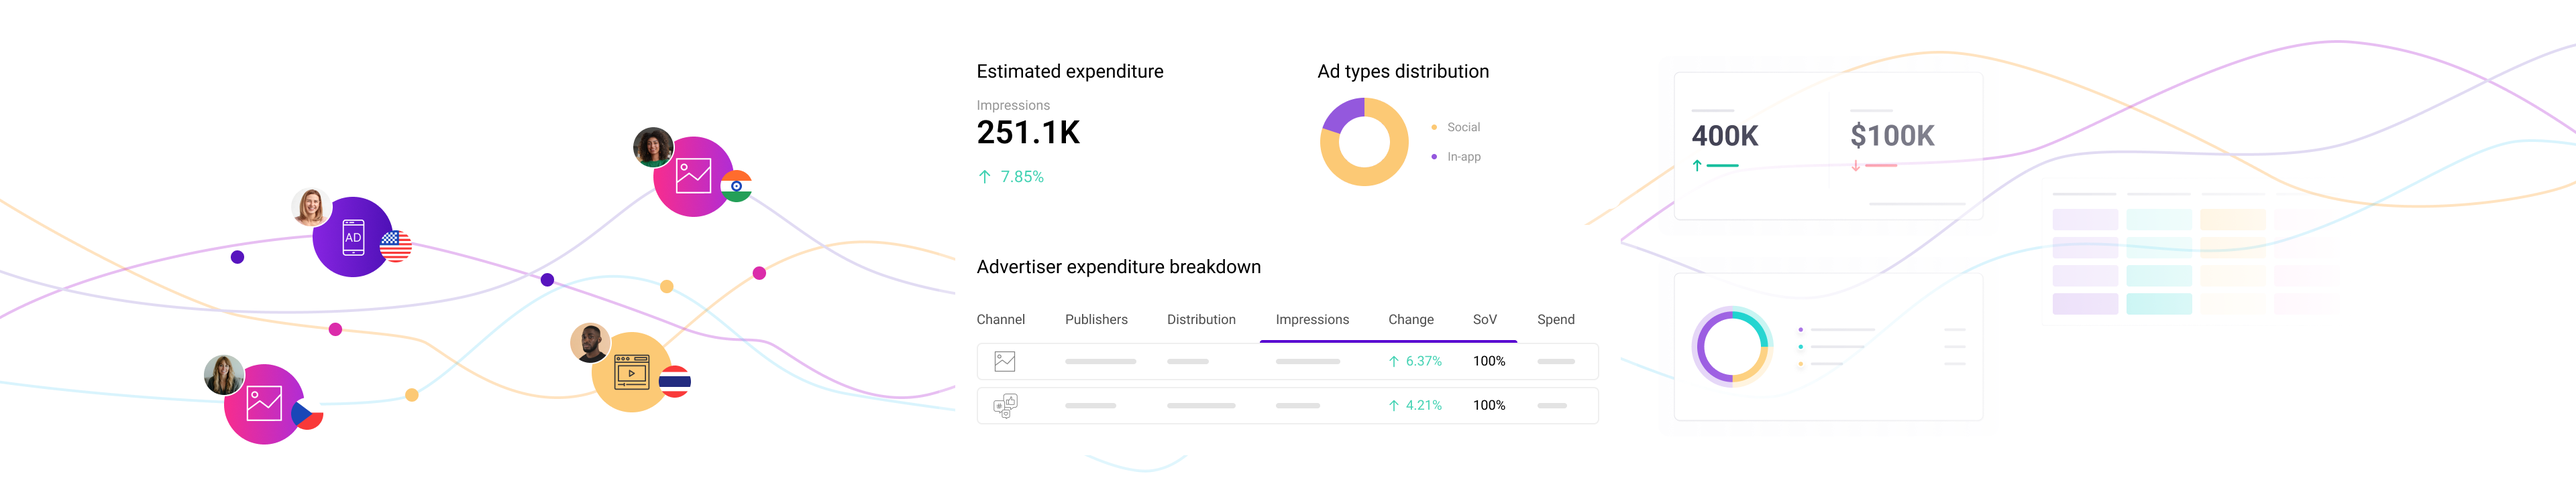
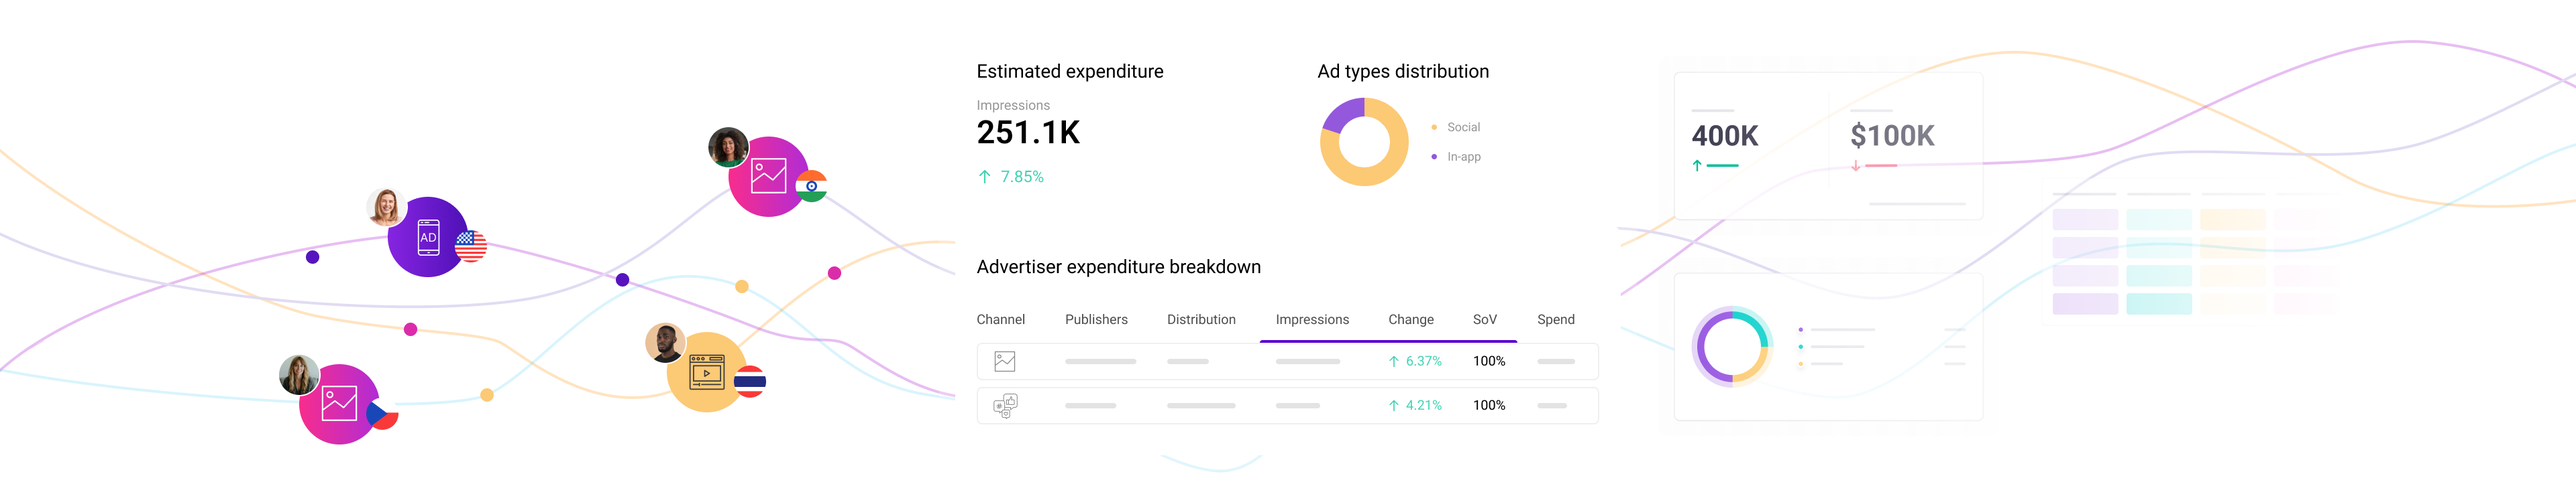
scr 2

diff --git a/demos/adc-hero/index.html b/demos/adc-hero/index.html
@@ -16,7 +16,7 @@
             
                 <h1>The world’s largest human panel based ad intelligence</h1>
                 <h2>Unwrap competitors ads, spend, impressions and dive deep into their strategy.<br>5+Million panelists from 52 countries and counting</h2>
-                <img src="images/screenshot.png" style="margin-top: 40px; z-index: 100; position: relative;" width="100%">
+                <img src="images/screenshot.png" style="margin-top: 40px; z-index: 100; position: relative; left:-15%;" width="130%">
 
                 <!--Next particle-->
                 <img id="map" src="images/bg.png" data-particle-gap="4" data-mouse-force="-30" class="next-particle">
